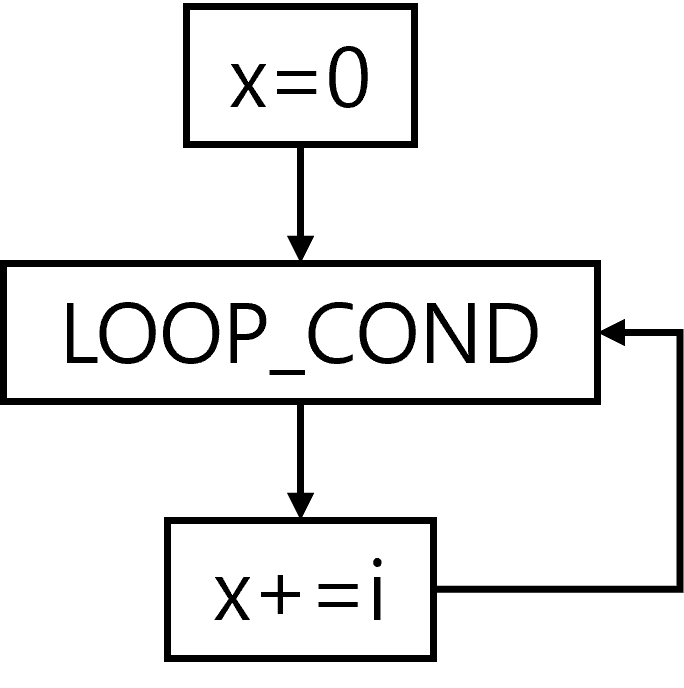
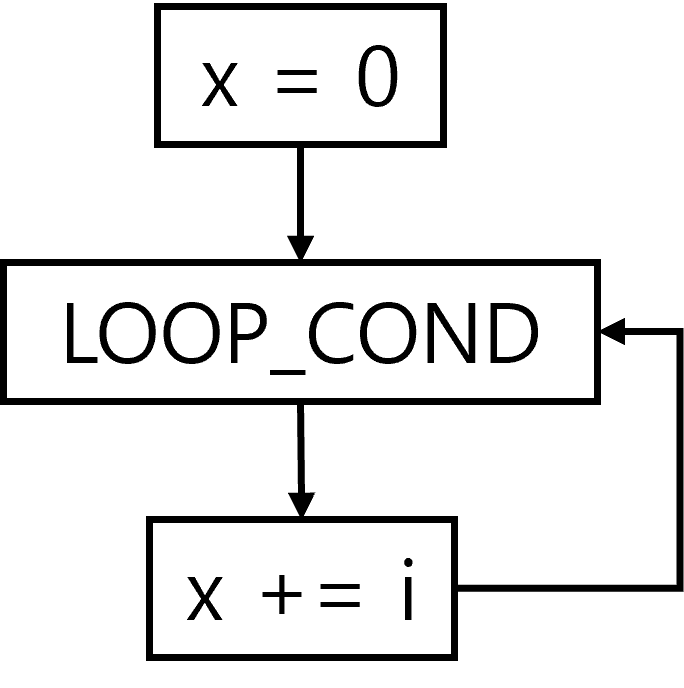
.

diff --git a/_posts/2026-04-22-GRACEFUL_A_Learned_Cost_Estimator_For_UDFs.md b/_posts/2026-04-22-GRACEFUL_A_Learned_Cost_Estimator_For_UDFs.md
@@ -1135,7 +1135,7 @@ author_profile: true
 
 - 즉,
     - 실제 반복 구조(cycle) 제거
-    - LOOP node와 LOOP_END node 추가
+    - `LOOP` node와 `LOOP_END` node 추가
     - 반복 횟수는 feature로 저장
 - 이를 통해 그래프를 DAG로 변환하면 GNN 학습이 용이함
 
@@ -1152,7 +1152,7 @@ author_profile: true
 - GRACEFUL은 이를 더 세밀하게 나눔
 
 <div align="center">
-    <img src="/images/2026-04-22-GRACEFUL_A_Learned_Cost_Estimator_For_UDFs/single_statement_cfg.png" alt="Single-statement CFG" width="250">
+    <img src="/images/2026-04-22-GRACEFUL_A_Learned_Cost_Estimator_For_UDFs/single_statement_cfg.png" alt="Single-statement CFG" width="200">
 </div>
 
 ##### 3.1.2.3. Basic Block을 세분화 하는 이유
@@ -1192,6 +1192,108 @@ author_profile: true
 - 같은 nested function call은 별도 node로 분리
 
 #### 3.1.3. Handling Loops
+##### 3.1.3.1. 기본 아이디어: loop를 DAG로 표현
+- 일반적인 CFG
+    - 일반 CFG에서 loop는 cycle을 생성
+    - e.g.,
+        ```python
+        x = 0
+        for i in range(10):
+            x += i
+        ```
+    - 일반적인 CFG는 아래 처럼 다시 loop condition으로 돌아가는 cycle이 존재
+
+<div align="center">
+    <img src="/images/2026-04-22-GRACEFUL_A_Learned_Cost_Estimator_For_UDFs/cfg3.png" alt="Control Flow Graph (CFG)" width="175">
+</div>
+
+- 그러나, GRACEFUL은 CFG를 DAG로 변환
+
+<div align="center">
+    <img src="/images/2026-04-22-GRACEFUL_A_Learned_Cost_Estimator_For_UDFs/graceful_dag1.png" alt="GRACEFUL's Directed Acyclic Graph (DAG)" width="175">
+</div>
+
+- 즉,
+    - 실제 반복 구조(cycle) 제거
+    - `LOOP` node와 `LOOP_END` node 추가
+    - 반복 횟수는 feature로 저장
+- 이를 통해 그래프를 DAG로 변환하면 GNN 학습이 용이함
+
+##### 3.1.3.2. loop_part flag
+- loop 내 모든 operator에 `loop_part` flag를 설정
+- 예를 들어, 
+    ```python
+    a = 0
+    b = 1
+    for i in range(n)
+        a += i
+        b *= 2
+    ```
+
+<div align="center">
+    <img src="/images/2026-04-22-GRACEFUL_A_Learned_Cost_Estimator_For_UDFs/graceful_dag2.png" alt="GRACEFUL's Directed Acyclic Graph (DAG) w/ loop_flag" width="250">
+</div>
+
+- 즉, loop 내 node에는 `loop_part = True' flag를 삽입
+- GNN이 반복 수행되는 연산을 인식하도록 하는 것
+
+##### 3.1.2.3. Problem Situation 1: propagation of loop information diminish
+- 예를 들어, 아래와 같은 코드가 있다고 하자
+    ```python
+    for i in range(1000):
+        temp = func1(my_input)
+        temp = func2(temp)
+        temp = func3(temp)
+        temp = func4(temp)
+        # ...
+        temp = func5(temp)
+    ```
+- 위 상황에서 `LOOP_END` 노드와 `shortcut edge` 없이 생성되는 그래프는 아래와 같음
+
+<div align="center">
+    <img src="/images/2026-04-22-GRACEFUL_A_Learned_Cost_Estimator_For_UDFs/graceful_dag_w_o_LOOP_END.png" alt="GRACEFUL's Directed Acyclic Graph (DAG)" width="250">
+</div>
+
+- GNN은 위 그래프에서 message passing을 수행
+- 이때, `LOOP` 노드에서 op100까지의 거리가 너무 멀어짐
+- 따라서, `LOOP`의 정보가 op100까지 잘 전달되지 않음
+    - 즉, loop 관련 정보가 희석됨
+
+##### 3.1.2.4. Proposing Solution 1: LOOP_END node
+- 일반적인 CFG에는 `LOOP_END`와 같은 노드가 없음
+- 그러나 GRACEFUL은 의도적으로 생성
+    - loop 전체를 하나의 영역으로 명시적으로 표현하기 위함
+
+<div align="center">
+    <img src="/images/2026-04-22-GRACEFUL_A_Learned_Cost_Estimator_For_UDFs/graceful_dag_w_o_shortcut_edge.png" alt="GRACEFUL's Directed Acyclic Graph (DAG)" width="250">
+</div>
+
+- 그러나 여전히 `LOOP`와 `LOOP_END` 사이 거리가 멀음
+
+##### 3.1.2.5. Proposing Solution 2: shortcut edge
+- 따라서, shortcut edge를 추가
+    - GNN 관점에서 원래는: `LOOP -> func1 -> func2 -> ... -> func100 -> LOOP_END`로
+    - message passing을 100번 해야함
+- 그러나, shortcut edge 추가 후에는
+    - `LOOP -> LOOP_END`로 한 번에 전달됨
+
+- 즉, `LOOP_END`는
+    - loop 내부 정보: 
+        - func1 ~ func100
+    - loop 자체 정보: 
+        - loop type
+        - interation count
+    - 정보를 동시에 가짐
+
+##### 3.1.2.6. Fusing of loop-related information
+- UDF의 root node('RETURN' node)에 모든 정보를 모아서 embedding을 생성하는 것이 중요
+- 아래 두 정보를 fusing
+    - **loop-related information**
+        - type of the loop
+        - code execution inside the loop
+    - **pre-loop computation**
+- 이때, `LOOP_END` 노드가 해당 loop의 요약본 역할을 하여 `RETURN` 노드에 최종 정보를 요약하는데 도움
+
 #### 3.1.4. Various UDF Node Types
 #### 3.1.5. Transferable Featurization
 